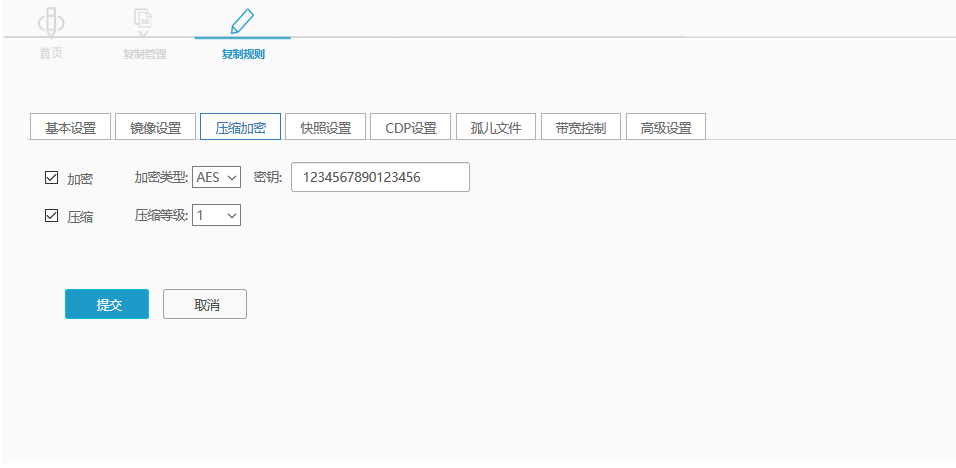
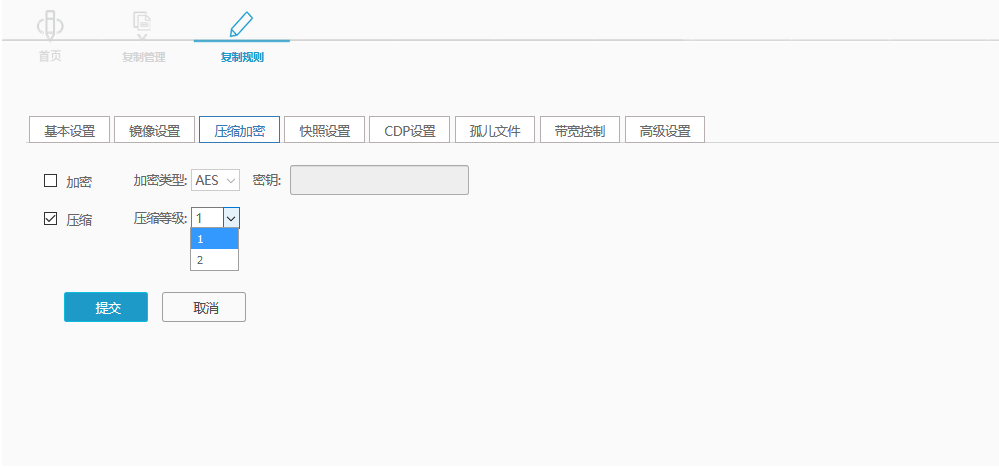
Updates coopy_cdp/advance_settings.md
Auto commit by GitBook Editor

diff --git a/coopy_cdp/advance_settings.md b/coopy_cdp/advance_settings.md
@@ -40,15 +40,15 @@
 
 ### 压缩加密 {#-1}
 
-在数据灾备的过程中，可以定义数据是否要加密，由用户自定义加密的密钥。压缩则可选择10种不同的压缩等级，随着压缩等级的提升，消耗的资源也会相应增加。
+在数据灾备的过程中，可以定义数据是否要加密，由用户自定义加密的密钥。压缩则可选择2种不同的压缩等级，随着压缩等级的提升，消耗的资源也会相应增加。
 
-![](/assets/V6.125250.png)
+![](/assets/V6.118042613.png)
 
 ### 快照设置 {#-2}
 
 针对复制规则，用户可自动或者手工生成快照。快照即当前数据的一个“切片”。快照手工生成在复制规则的管理页面中通过手工操作实现。定义快照自动生成的时候，必须定义快照的生成间隔时间、开始时间，以及快照数目参数。当快照达到上限个数是，采用的规则有两种：自动循环或者自动终止。一个快照占用的磁盘空间和当前的数据占用的磁盘空间一样，所以当定义自动快照的时候，要注意有足够的磁盘空间放置相应的快照，不需要的快照通过快照管理及时删除。
 
-![](/assets/V6.023782.png)
+![](/assets/V6.118042609.png)
 
 ### CDP设置 {#cdp}
 
@@ -56,7 +56,7 @@ CDP（Continuous Data Protection，CDP），即持续数据保护。持续数据
 
 通过如下页面设置CDP数据的保存策略：
 
-![](/assets/V6.024021.png)
+![](/assets/V6.118042612.png)
 
 连续CDP数据的保存天数：指保存连续的CDP数据的天数。
 
@@ -67,7 +67,7 @@ CDP（Continuous Data Protection，CDP），即持续数据保护。持续数据
 * 创建Baseline副本：创建一个Baseline副本目的也是缩短恢复时间。
 * Baseline（全备份）策略：用户可以指定每周/每月/每年的baseline生成策略。比如，用户如果需要连续CDP数据保存3天；每天生成一个增量备份，增量数据保存一年；CDP生成时间为00:00:00；每周生成一个全备份的数据，全备份数据保存3年；。则可配置如下：
 
-![](/assets/V6.024572.png)
+![](/assets/V6.118042616.png)
 
 ### 孤儿文件 {#-3}
 
@@ -78,13 +78,21 @@ CDP（Continuous Data Protection，CDP），即持续数据保护。持续数据
 * 移动到指定路径: 即将所有的孤儿文件移动到某个特定的目录下统一管理。
   * 归档: 当复制规则处于“复制”状态时，源目录下的某个文件和目录被删除时，目标目录下文件和目录移到指定路径下，实现数据的归档。
 
-![](/assets/V6.024899.png)
+![](/assets/V6.118042608.png)
 
 ### 带宽控制 {#-4}
 
 当在某些情况下，用户想限定带宽的使用，可以通过带宽控制来实现。比如，通过Internet实现数据异地灾备，但同时用户又不想在上班时间影响员工的Internet访问速度，就可以限定工作机时间的带宽。
 
-![](/assets/V6.025005.png)
+![](/assets/V6.118042610.png)
+
+### 高级设置 {#-6}
+
+勾选“启用禁止镜像功能，禁止镜像时间窗口”，禁止镜像功能在指定的时间范围内，禁止镜像；具体描述如下：
+
+    （1）在该时间范围内，如果规则需要重镜像，则停止镜像；
+    （2）在该时间范围内，如果规则正在镜像，则停止镜像；
+    （3）在该时间范围内，如果规则状态为非镜像状态，保持不变；
 
 ### 删除复制规则 {#-5}
 
